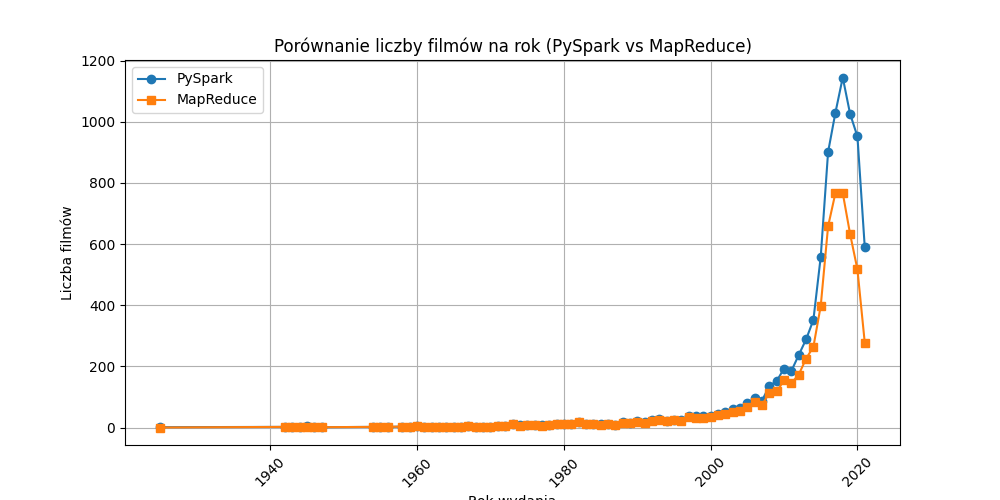
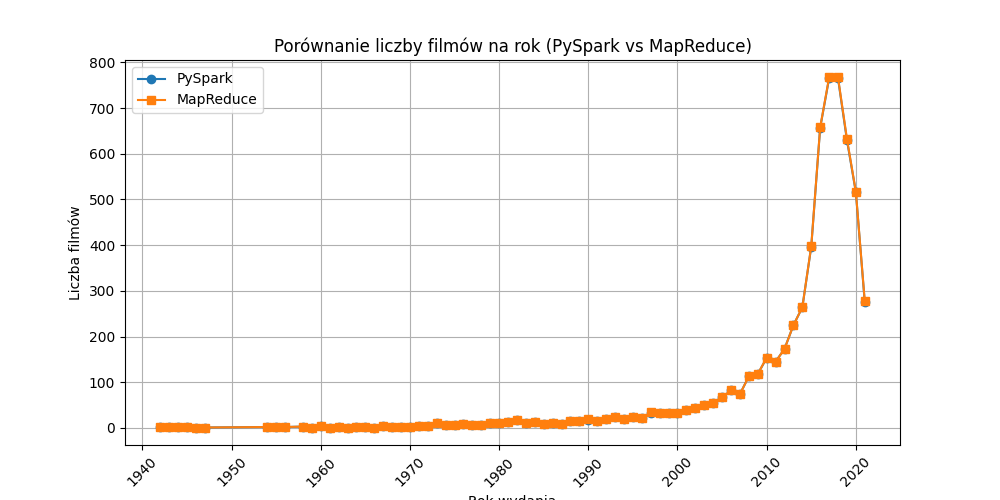
Poprawka zliczanych wyników
Poprawione map i reduce w netflix_pyton_mapreduce.py.
Poprawione zliczanie filmów w netflix_pyspark, tak aby zliczane były tylko filmy, a nie TV shows.

diff --git a/MapReduce_vs_Spark/src/netflix_python_mapreduce.py b/MapReduce_vs_Spark/src/netflix_python_mapreduce.py
@@ -2,6 +2,7 @@ import csv
 import os
 import time
 from collections import defaultdict
+from functools import reduce
 
 base_dir = os.path.dirname(__file__)  # folder, w którym jest ten skrypt
 csv_path = os.path.join(base_dir, "data", "netflix_titles.csv")
@@ -11,14 +12,19 @@ output_path = os.path.join(base_dir, "data", "python_output.csv")  # plik wyjśc
 start_time = time.time()
 
 # Wczytaj dane i wykonaj map + reduce
-year_count = defaultdict(int)
-
 with open(csv_path, encoding="utf-8") as f:
     reader = csv.DictReader(f)
-    for row in reader:
-        if row["type"] == "Movie":
-            year = row["release_year"]
-            year_count[year] += 1
+    movies = filter(lambda row: row["type"] == "Movie", reader)
+
+    # map: wydobywamy tylko rok
+    movie_years = map(lambda row: row["release_year"], movies)
+
+    # reduce: zliczamy wystąpienia lat
+    def count_years(acc, year):
+        acc[year] += 1
+        return acc
+
+    year_count = reduce(count_years, movie_years, defaultdict(int))
 
 
 # Posortowane wyniki

diff --git a/MapReduce_vs_Spark/src/netflix_pyspark.py b/MapReduce_vs_Spark/src/netflix_pyspark.py
@@ -18,7 +18,7 @@ df = spark.read.option("header", True).csv(file_path)
 
 # Konwersja kolumny release_year na integer i filtrowanie nieprawidłowych wartości
 df_clean = df.withColumn("release_year", col("release_year").cast("int")) \
-             .filter(col("release_year").isNotNull())
+             .filter((col("release_year").isNotNull()) & (col("type") == "Movie"))
 
 # Agregacja: liczba filmów na każdy rok
 df_result = df_clean.groupBy("release_year").agg(count("*").alias("count")).orderBy("release_year")
